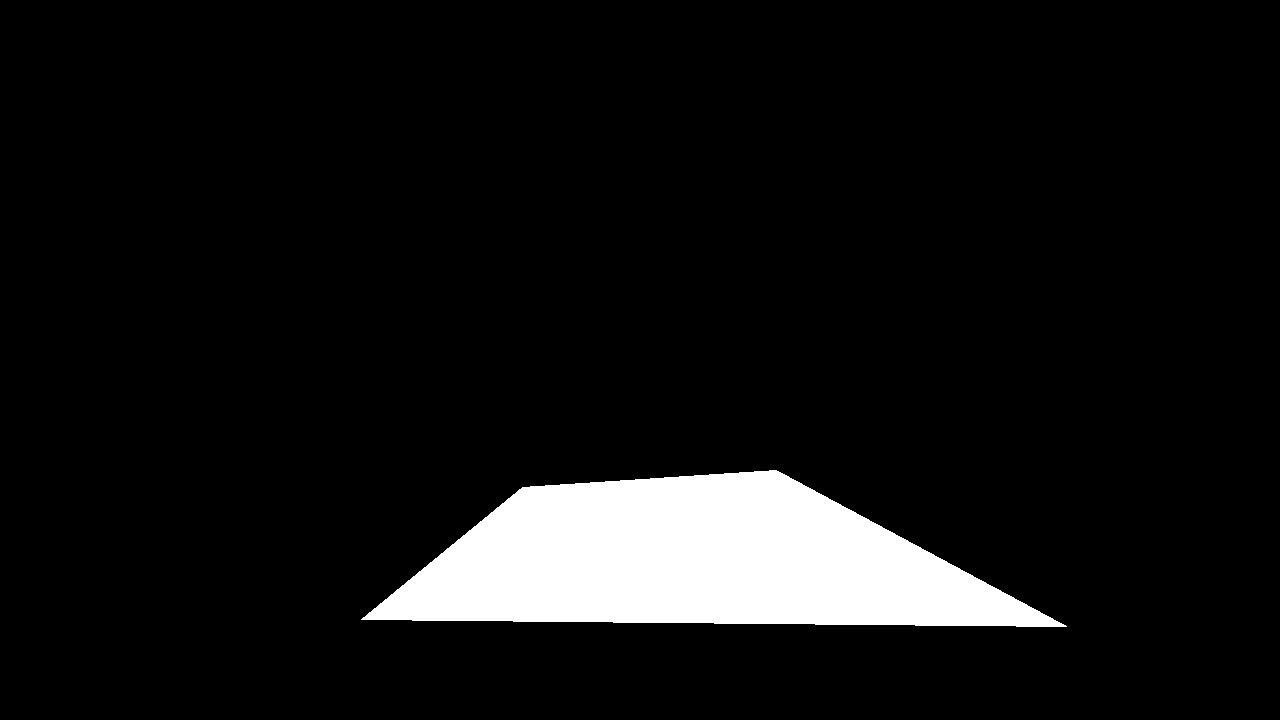
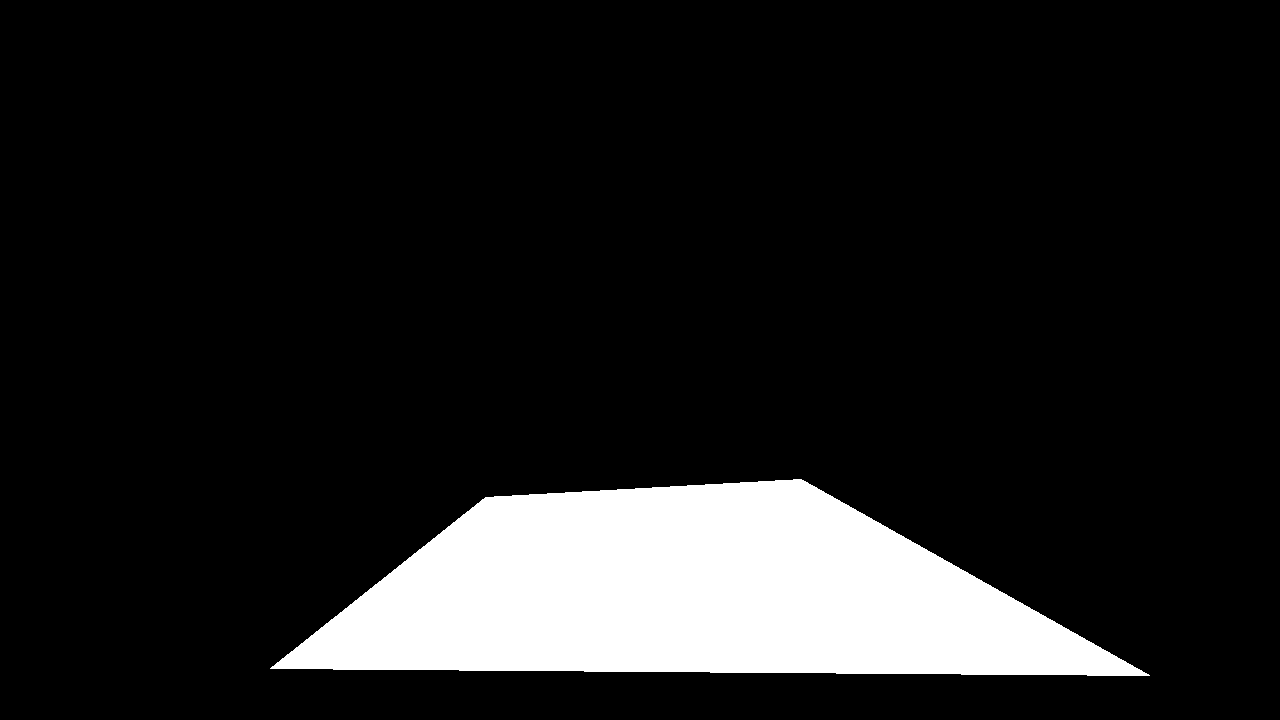
yyj

Changed region(s): [[0.2188, 0.6417, 0.9062, 0.9472], [0.6562, 0.7028, 0.6875, 0.7333], [0.625, 0.6722, 0.6562, 0.7028]]

diff --git a/opencv_python/블랙박스영상_차선검출/project_video_steptwo_2.py b/opencv_python/블랙박스영상_차선검출/project_video_steptwo_2.py
@@ -11,9 +11,10 @@ video_w = int(video.get(cv2.CAP_PROP_FRAME_WIDTH))              # 비디오 Widt
 video_h = int(video.get(cv2.CAP_PROP_FRAME_HEIGHT))             # 비디오 Height
 video_count = video.get(cv2.CAP_PROP_FRAME_COUNT)               # 총 프레임 개수
 
-# mask 
+# mask - 검은색 배경
 black_mask = np.zeros(shape=(video_h, video_w, 3), dtype=np.uint8)   # 0일때는 black, 255일때는 흰색
 
+# 동영상 추출된 이미지 -> 윤곽선 -> 마스크작업
 img = cv2.imread(img_path, cv2.IMREAD_GRAYSCALE)
 
 if img is None:
@@ -38,7 +39,7 @@ def mouse_event(event, x, y, flags, param):
 
 
 # 원본
-cv2.imshow('img', img)
+cv2.imshow('video', img)
 
 # 윤곽선 도출 이미지
 img_canny = cv2.Canny(img, 50, 700)
@@ -47,15 +48,74 @@ print('함수 사용')
 cv2.setMouseCallback('canny', mouse_event)
 cv2.waitKey()
 cv2.destroyAllWindows()
-# print(point)
 
 # 좌표 찍은것을 이용해서 poly 적용하기
-# print(point)
 point_mask = np.array(point)
-# print(point_mask)
-
 mask = cv2.fillConvexPoly(black_mask, point_mask, color=(255, 255, 255))
 cv2.imshow('mask', mask)
-cv2.imwrite('./project_video/mask.png', mask)
+mask_path = './project_video/mask.png'
+cv2.imwrite(mask_path, mask)
+cv2.waitKey()
+
+
+# 이미지 부터 작업시작! - 이미지에서 mask 적용
+# mask_show = cv2.bitwise_and(img, mask)
+
+
+# 동영상 작업 구역 - 동영상에서 mask 적용
+if video.isOpened():
+    while True:
+        ret, img = video.read()     
+        if ret:                 
+            # 원본영상
+            cv2.imshow('main', img)
+
+            # 마스크 영상
+            mask_show = cv2.copyTo(img, mask=mask)
+            # cv2.imshow('mask', mask_show)
+
+            # canny 적용 동영상
+            mask_canny = cv2.Canny(mask_show, 50, 700)
+            cv2.imshow('canny', mask_canny)
+
+            # hsv 적용된것 이용하는거 -> 캐니, 마스크
+            video_hsv = cv2.cvtColor(img, cv2.COLOR_BGR2HSV)
+            
+            mask_show = cv2.copyTo(video_hsv, mask=mask)
+            # cv2.imshow('mask', mask_show)
+            
+            mask_canny = cv2.Canny(mask_show, 200, 760)
+            cv2.imshow('canny', mask_canny)
+            
+            # 각각 hsv 노란색, 흰색 선 검출
+            w_line = cv2.inRange(mask_show, (18, 150, 0), (24, 255, 255))
+            contours, hierarchy = cv2.findContours(w_line,cv2.RETR_TREE, cv2.CHAIN_APPROX_SIMPLE)
+            w_line = cv2.drawContours(img, contours, -1, (0, 0, 255), 5)
+                                                    # image:영상, countours:위에서 찾은 외곽선 좌표, contourldx:외곽선 인덱스 -1지정시 모든외곽선
+                                                    # color:색상, thichness:외곽선두께 < 0 이면 내부를 채운다. lineType:LINE_4, LINE_8, LINE_AA 중 선택
+                                                    # hierarchy:외곽선 계층정보, maxLevel: 최대 외곽선 레벨. 0이면 위에 지정된 좌표값만 그린다.
+            cv2.imshow('w_line',w_line)
+
+            r_line = cv2.inRange(mask_show, (0, 0, 135), (179, 24, 255))
+            contours, hierarchy = cv2.findContours(r_line,cv2.RETR_TREE, cv2.CHAIN_APPROX_SIMPLE)
+            r_line = cv2.drawContours(img, contours, -1, (0, 255, 0), 5)
+            # cv2.imshow('r_line',r_line)
+
+            # 위에서 만든 노란색, 흰색 선 합치기.
+            # w_r_line = cv2.add(w_line, r_line)
+            # cv2.imshow('result', w_r_line)
+            result = cv2.addWeighted(w_line, 0.3, r_line, 0.7, 0)
+            # result = cv2.cvtColor(w_r_line, cv2.COLOR_HSV2BGR)
+            cv2.imshow('result', result)
+
+            key = cv2.waitKey(25)   # 위 작업시간
+            if key == 27:           # esc
+                break
+        else:                       
+            break                   
+else:
+    print("can't open video.")      # 캡쳐 객체 초기화 실패
+video.release()              
+
 cv2.waitKey()
 cv2.destroyAllWindows()

diff --git a/opencv_python/블랙박스영상_차선검출/project_video_study.py b/opencv_python/블랙박스영상_차선검출/project_video_study.py
@@ -1,0 +1,65 @@
+import cv2
+import numpy as np
+
+videoFile = 'project_video.mp4'
+# 비디오 영상 가져오기
+cap = cv2.VideoCapture(videoFile)
+
+# 비디오 영상 크기 확인하기
+frame_size = (int(cap.get(cv2.CAP_PROP_FRAME_WIDTH)),
+              int(cap.get(cv2.CAP_PROP_FRAME_HEIGHT)))
+frame_count = int(cap.get(cv2.CAP_PROP_FRAME_COUNT))
+print('frame_size =', frame_size)
+print('frame count=', frame_count)
+
+def on_mouse(event, x, y, flags, param):
+    print("x={}, y={}".format(x,y))
+
+
+def region_of_interest(img, vertices):
+    # Define a blank matrix that matches the image height/width.
+    mask = np.zeros_like(img)
+    # Retrieve the number of color channels of the image.
+    channel_count = img.shape[2]
+    # Create a match color with the same color channel counts.
+    match_mask_color = (255,) * channel_count
+      
+    # Fill inside the polygon
+    cv2.fillPoly(mask, vertices, match_mask_color)
+    
+    # Returning the image only where mask pixels match
+    masked_image = cv2.bitwise_and(img, mask)
+    return masked_image
+
+# 207,675, 521,476 803,476, 1120, 675
+
+ROI_vertices = [
+    (207, 675),
+    (521,476),
+    (803,476),
+    (1120,675)
+]
+
+# main
+cv2.namedWindow('frame')
+cv2.setMouseCallback('frame', on_mouse)
+# 마스크를 생성하고,
+# while문으로 반복하면서 영상 한 프레임씩 가져오기
+# 마스크를 적용해서 마스크 부분만 영상 가져오기(copyTo)
+# 영상 출력(imshow)
+while True:   
+    retval, frame = cap.read() # 프레임 캡처
+    if not retval:
+        break
+    masked_img = region_of_interest(frame, np.array([ROI_vertices], np.int32))
+    img_HSV = cv2.cvtColor(masked_img, cv2.COLOR_BGR2HSV)
+    cLine_img = cv2.inRange(img_HSV, (18, 150, 0), (24, 255, 255))
+    rLine_img = cv2.inRange(img_HSV, (0, 0, 135), (179, 24, 255))
+    cv2.imshow('frame',frame)
+    cv2.imshow('result',masked_img)
+    cv2.imshow('cLine',cLine_img)
+    cv2.imshow('rLine',rLine_img)
+
+    key = cv2.waitKey(25)
+    if key == 27: # Esc
+        break
